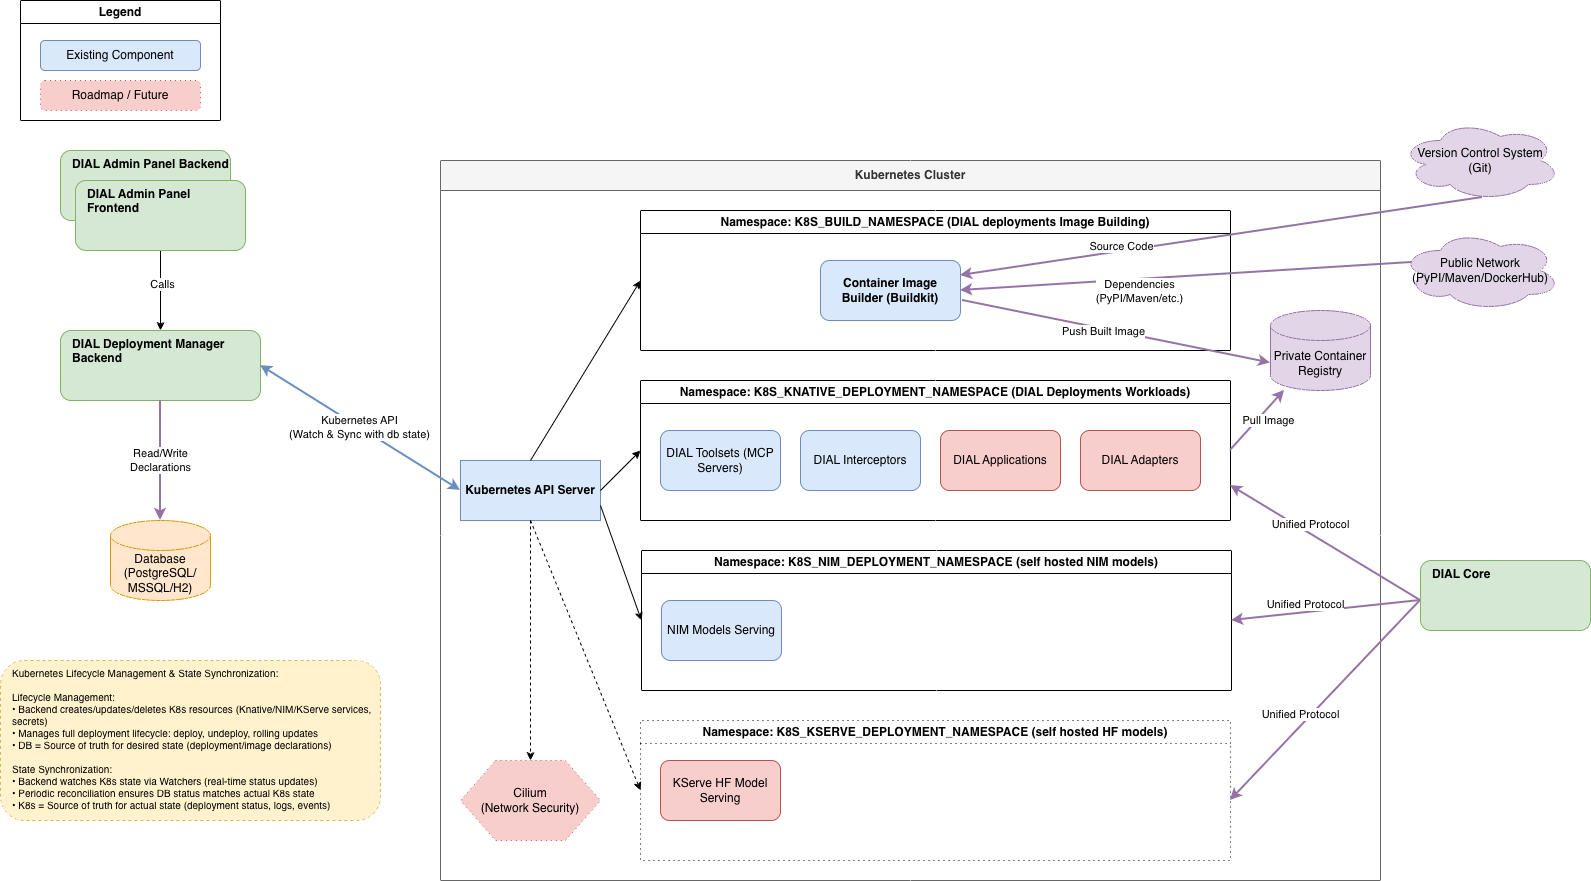
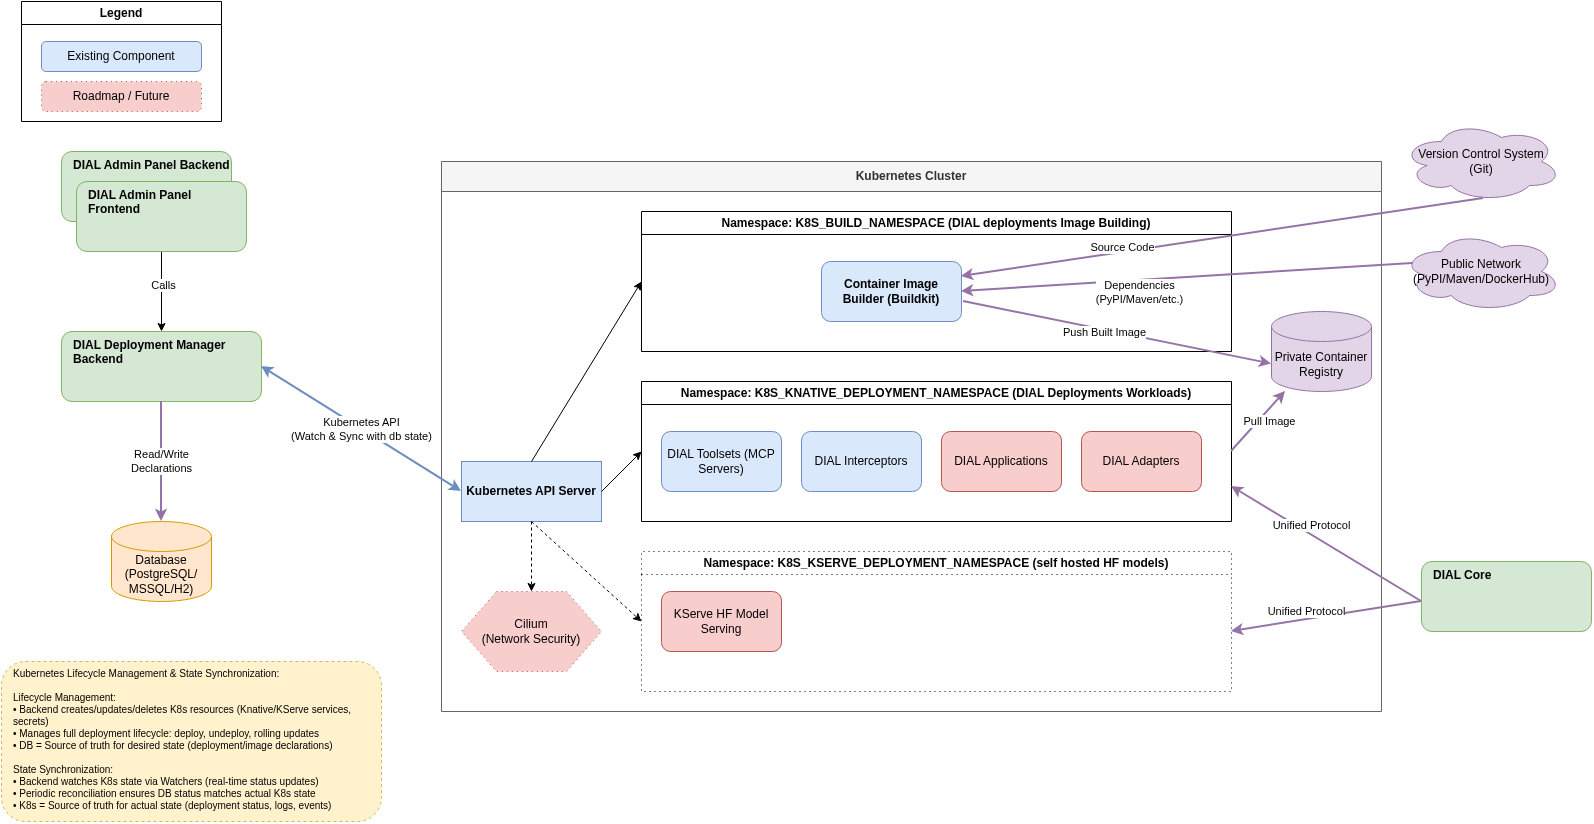
docs: address review on NIM removal upgrade plan and diagram
- Upgrade plan: require a DB backup before V1.60 (irreversible; rollback
  = restore backup + 0.22.x), add it to the checklist, and add post-upgrade
  cleanup of leftover NIM PVCs, ngc-secret / ngc-api-secret, and NGC key
  revocation.
- Infrastructure diagram: close the gap left by the NIM namespace and
  re-export the PNG from the .drawio source.
- Spec 028: extend FR-008 and close the diagram follow-up.

diff --git a/docs/upgrade-plans/0.23.0.md b/docs/upgrade-plans/0.23.0.md
@@ -16,6 +16,8 @@ One breaking change: NVIDIA NIM deployment support is removed. No new variables.
 
 ## 2. Before upgrading
 
+**Back up the database first.** `V1.60` is irreversible: there is no down-migration, and the deleted NIM rows cannot be recovered from the application. Rolling back means restoring this backup together with 0.22.x; 0.22.x cannot run against the migrated schema.
+
 **Rolling update.** `V1.60` drops `nim_deployment` while 0.22.x replicas may still be running. Their Hibernate JOINED polymorphic queries on deployments outer-join `nim_deployment` and will error until the rollout completes. Scale to one replica or use the `Recreate` strategy for this upgrade.
 
 The application no longer manages `NIMService` resources, so it cannot remove ones that still exist. On 0.22.x, do the following:
@@ -36,6 +38,16 @@ If you need the NIM deployment definitions for reference, export them via the co
   kubectl delete nimservice <name> -n <namespace>
   ```
   and delete any Ingress objects that were created for NIM services in legacy (non-KServe) mode.
+- Delete any leftover NIM model-cache PVCs in the NIM namespace (created through the `NIMService`, 20Gi by default):
+  ```bash
+  kubectl get pvc -n <nim-namespace>
+  kubectl delete pvc <name> -n <nim-namespace>
+  ```
+- Delete the operator-provisioned NGC secrets from the NIM namespace: the image pull secret `ngc-secret` and the API key secret `ngc-api-secret` (or the names set in `NIM_SERVICE_NGC_SECRET` / `NIM_SERVICE_NGC_AUTH_SECRET`):
+  ```bash
+  kubectl delete secret ngc-secret ngc-api-secret -n <nim-namespace>
+  ```
+- Revoke the NGC API key that was stored in those secrets in the NGC console, unless something else still uses it.
 - Remove the variables listed under 0.23.0 → Removed in `docs/INFRA-CHANGELOG.md` (optional; they are ignored).
 - Remove the `nimservices` Role/RoleBinding from the NIM namespace (optional).
 - The NIM Operator and its CRD can be uninstalled if nothing else uses them.
@@ -44,6 +56,7 @@ If you need the NIM deployment definitions for reference, export them via the co
 
 ## Pre-flight Checklist
 
+- [ ] Database backed up (`V1.60` is irreversible; rollback = restore this backup + 0.22.x)
 - [ ] NIM deployments undeployed and `kubectl get nimservices -A` returns nothing (or leftover `NIMService` resources scheduled for manual deletion after upgrading)
 - [ ] Rollout uses a single replica or the `Recreate` strategy
 - [ ] NIM deployment definitions exported on 0.22.x if needed for reference

diff --git a/specs/028-remove-nim-deployments/spec.md b/specs/028-remove-nim-deployments/spec.md
@@ -80,7 +80,7 @@ As an administrator moving configuration from an older installation, I can impor
 - **FR-005**: The service MUST contain no NIM Kubernetes integration (CRD, client, informer, manifest generation, deployment manager) and no NIM configuration properties; leftover NIM environment variables MUST be ignored.
 - **FR-006**: Import and import preview of archives containing a `nimDeployments` block MUST succeed and ignore that block.
 - **FR-007**: Already-applied migrations (V1.1–V1.59, SQL and Java) MUST remain unchanged.
-- **FR-008**: Operator documentation MUST list the removed environment variables (0.23.0 changelog), the data deletion, the pre-upgrade `NIMService` cleanup, and the single-replica upgrade requirement (`docs/upgrade-plans/0.23.0.md`).
+- **FR-008**: Operator documentation MUST list the removed environment variables (0.23.0 changelog), the data deletion, the mandatory pre-upgrade database backup (`V1.60` is irreversible; rollback = restore backup + 0.22.x), the pre-upgrade `NIMService` cleanup, the post-upgrade cleanup of leftover NIM PVCs and NGC secrets (plus NGC key revocation), and the single-replica upgrade requirement (`docs/upgrade-plans/0.23.0.md`).
 
 ### Key Entities
 
@@ -101,4 +101,3 @@ As an administrator moving configuration from an older installation, I can impor
 
 - No installation still needs NIM; permanent deletion of NIM data and history is accepted.
 - The admin frontend ships a matching change removing the NIM type.
-- The infrastructure diagram PNG is re-exported from the updated `.drawio` source outside this change.

diff --git a/specs/028-remove-nim-deployments/tasks.md b/specs/028-remove-nim-deployments/tasks.md
@@ -45,10 +45,7 @@
 
 - [X] T018 Tombstone `specs/nim-deployments/spec.md`; update `specs/README.md` rows
 - [X] T019 [P] Remove NIM from `README.md`, root/`service`/`kubernetes` `CLAUDE.md`, `.specify/memory/constitution.md`
-- [X] T020 [P] Remove NIM from `docs/configuration.md`, `docs/deployment_guide_full_security_model.md`, the infrastructure `.drawio`
+- [X] T020 [P] Remove NIM from `docs/configuration.md`, `docs/deployment_guide_full_security_model.md`, the infrastructure `.drawio`; re-export its PNG
 - [X] T021 [P] Add `docs/upgrade-plans/0.23.0.md` and the 0.23.0 **Removed** section in `docs/INFRA-CHANGELOG.md`
 - [X] T022 Final case-insensitive NIM audit grep; `./gradlew clean build`
 
-## Follow-ups (out of scope)
-
-- [ ] T023 Re-export `docs/diagramms/infrastructure_component/infrastrucutre-component-diagramm.png` from the updated `.drawio` (no draw.io available in the implementation environment)
